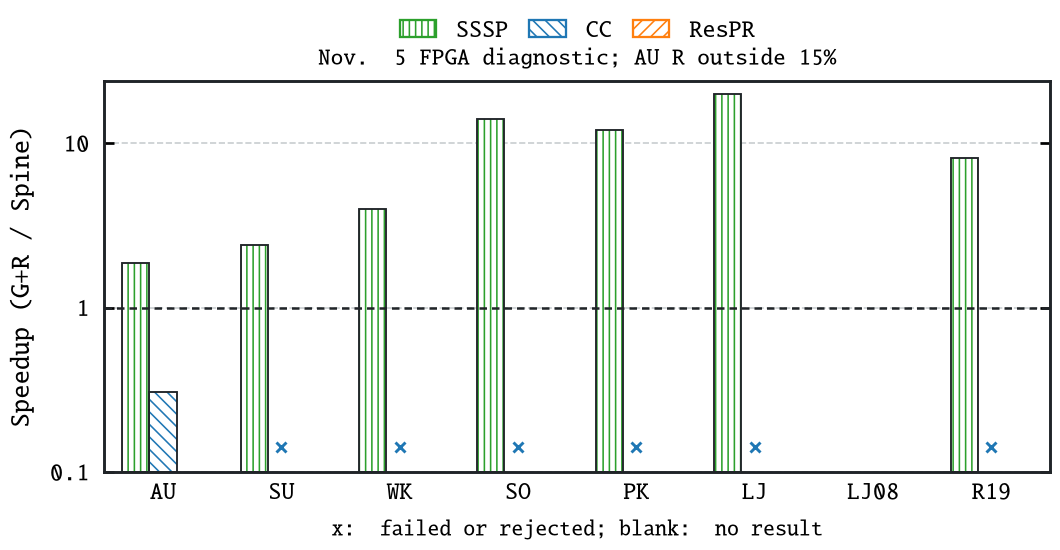
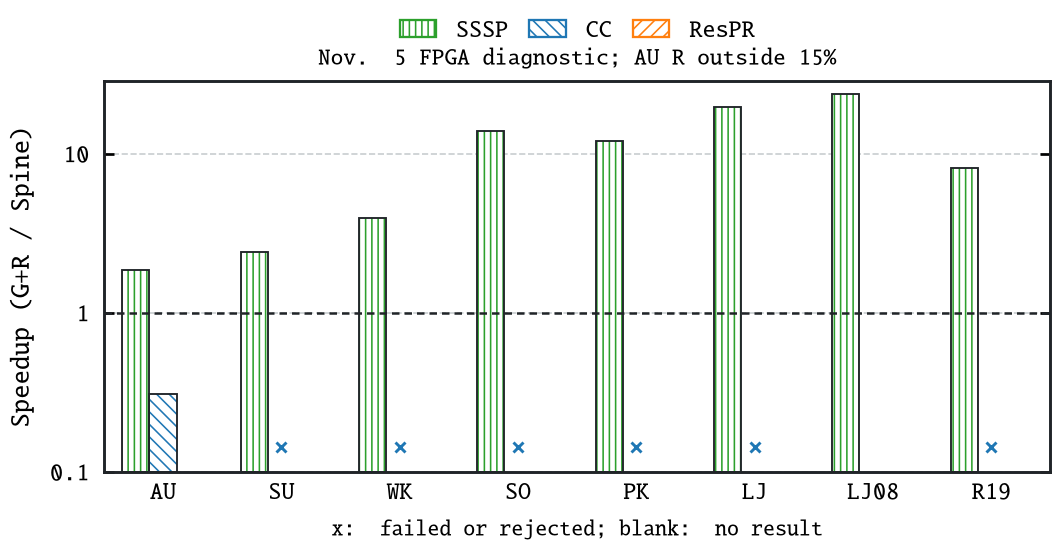
Publish all eight November 5 FPGA SSSP pairs

diff --git a/docs/experiments/comparisons/grasu_regraph_stage_validation/evaluation_impact/figure7_11_preview_20261105/README.md b/docs/experiments/comparisons/grasu_regraph_stage_validation/evaluation_impact/figure7_11_preview_20261105/README.md
@@ -48,7 +48,7 @@ cases are relevant to interpretation and must not be omitted:
 
 | Scope | Outcome |
 | --- | --- |
-| Nov. 5 resident CC FPGA | On AU, G+R **5.450 ms** vs. Spine **17.681 ms** (G+R wins **3.24x**). Spine admission and relaxation each took about 8 ms; packing through batch residency took about 0.165 ms. The other workloads exceed the old CC image's 4,096-edge per-source row limit (R19 reaches 62,361). The enlarged 65,536-entry workspace passed C-model tests but was not yet board-verified. |
+| Nov. 5 resident CC FPGA | On AU, G+R **5.450 ms** vs. Spine **17.681 ms** (G+R wins **3.24x**). Spine admission and relaxation each took about 8 ms; packing through batch residency took about 0.165 ms. Six other cases failed with row overflow on the old CC image; LJ08 did not yet have a completed receipt at this snapshot. All seven exceed the image's 4,096-edge per-source row limit (R19 reaches 62,361). The enlarged 65,536-entry workspace passed C-model tests but was not yet board-verified. |
 | Legacy compact FullPR FPGA | G+R wins on **AM 48.77x, WG 22.15x, FL 23.46x**, using the inverse median speedup. No current large-graph FullPR sweep |
 | Fig. 8 native setup checkpoint | G wins on **AU/64 2.35x, AU/512 2.06x, AU/4096 2.53x, SU/512 1.69x**. Spine wins WK/512 1.03x and PK/512 1.99x. SO/512 has no four-copy pair. These are not ten-batch results |
 | Fig. 8 intermediate host revisions | The early direct-directory AU/64 check still favored G by **1.61x**. The reused-directory host still lost AU/4096 by **1.10x**. The first card-0 AU/512 check with repaired G favored G by **1.054x**, then the [two-bank Spine replay](../hardware_validation/r_retention_repair_20261103/FIGURE_IMPACT.md#two-bank-spine-host-replay) flipped it to **1.21x** for Spine |
@@ -65,7 +65,9 @@ Flickr, L1/L3/L5 = carry target levels 1/3/5. Zero-net uses the fallback
 path on a delete/reinsert sequence, not a no-op optimization. The stage
 shares are simulated attribution, not FPGA counters.
 
-The Nov. 5 diagnostic tests the replacement images despite the documented
+The Nov. 5 diagnostic contains nine measured pairs: Spine wins all eight
+SSSP workloads (1.86x--23.82x), and G+R wins the one admitted CC workload
+(AU). The diagnostic tests the replacement images despite the documented
 AU R slowdown. It does not turn that screen into a 15% parity pass. The
 SSSP rows use the resident update through final readback wall-time receipt;
 the CC rows explicitly use host packing after old-state residency through
